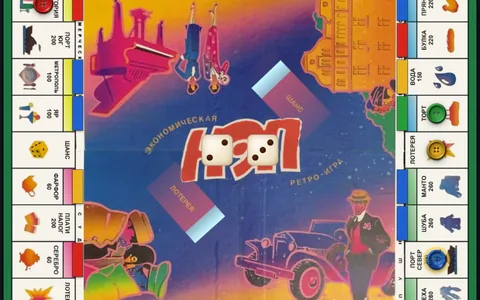
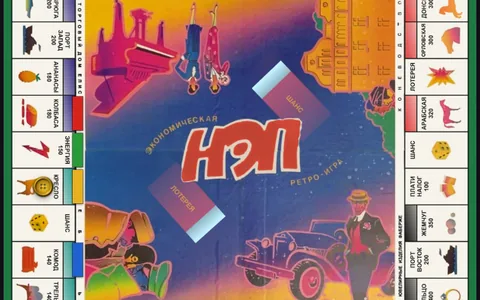
НЭП: «Начало» в правом нижнем углу, кубики «Менеджера» — в лотке на сукне справа, новость наверху ленты
- поле повёрнуто на 90° против часовой (tools/manager/nep/turn.py: каёмка с отраслями — вместе с кольцом, картинка центра прямая)
- кубики всех полей «Менеджера» перенесены из центра поля в панель (на телефоне их срезал край экрана)
- дата новости о НЭПе — после остальных, иначе она оказывалась в глубине ленты

diff --git a/lavochka/src/games/manager/manager.css b/lavochka/src/games/manager/manager.css
@@ -55,7 +55,6 @@
 .mg-center { position: absolute; z-index: 20; display: flex; flex-direction: column; align-items: center; justify-content: center; gap: calc(var(--u) * 1.2);
   padding: calc(var(--u) * 1.5); box-sizing: border-box; pointer-events: none; font: calc(var(--u) * 1.75) / 1.3 system-ui, sans-serif; color: #fff; }
 .mg-center > * { pointer-events: auto; }
-.mg-tray.dice-tray { flex: none; height: auto; min-height: calc(var(--u) * 9); width: 60%; background: none; box-shadow: none; overflow: visible; }
 .mg-prompt { display: flex; flex-direction: column; align-items: center; gap: calc(var(--u) * 0.9); max-width: 100%; text-align: center; }
 .mg-prompt:empty { display: none; }
 .mg-q { background: rgba(10, 16, 40, 0.82); padding: calc(var(--u) * 0.6) calc(var(--u) * 1.2); border-radius: calc(var(--u) * 0.8); text-shadow: 0 1px 2px #000; }
@@ -136,6 +135,7 @@
 
 /* панель стола */
 .mg-panel { display: flex; flex-direction: column; gap: 8px; }
+.mg-dice.dice-tray { min-height: 64px; }
 .mg-cash { display: flex; align-items: center; gap: 8px; flex-wrap: wrap; }
 .mg-sum { font: 800 20px/1.2 system-ui, sans-serif; }
 .mg-notes { display: inline-flex; gap: 3px; }
@@ -152,7 +152,6 @@
 .mg-wrap[data-map='biznesmen'] .mg-token { width: 3.6%; }
 .mg-wrap[data-map='biznesmen'] .mg-center { overflow: auto; }
 .mg-wrap[data-map='biznesmen'] .mg-center .btn { font-size: calc(var(--u) * 1.45); padding: calc(var(--u) * 0.5) calc(var(--u) * 1); }
-.mg-wrap[data-map='biznesmen'] .mg-tray.dice-tray { min-height: calc(var(--u) * 7); }
 .mg-wrap[data-map='biznesmen'] .mg-card { width: calc(var(--u) * 22); }
 .mg-shs { display: inline-flex; gap: 2px; vertical-align: middle; }
 .mg-sh { display: inline-block; width: 1.25em; border-radius: 3px; background: var(--c); color: #111; text-align: center; font-weight: 700; font-style: normal; box-shadow: inset 0 0 0 1px rgba(0, 0, 0, 0.35); }

diff --git a/lavochka/src/games/manager/view.ts b/lavochka/src/games/manager/view.ts
@@ -85,7 +85,6 @@ class ManagerView implements GameView<State, Ev> {
           <div class="mg-float"></div>
         </div>
         <div class="mg-center bc-ui">
-          <div class="mg-tray"></div>
           <div class="mg-card" hidden></div>
           <div class="mg-prompt"></div>
         </div>
@@ -97,7 +96,6 @@ class ManagerView implements GameView<State, Ev> {
     this.cellsEl = this.wrap.querySelector('.mg-cells') as HTMLElement;
     this.tokensEl = this.wrap.querySelector('.mg-tokens') as HTMLElement;
     this.center = this.wrap.querySelector('.mg-center') as HTMLElement;
-    this.trayEl = this.wrap.querySelector('.mg-tray') as HTMLElement;
     this.cardEl = this.wrap.querySelector('.mg-card') as HTMLElement;
     this.prompt = this.wrap.querySelector('.mg-prompt') as HTMLElement;
     this.pop = this.wrap.querySelector('.mg-pop') as HTMLElement;
@@ -120,12 +118,15 @@ class ManagerView implements GameView<State, Ev> {
       this.cam.shown();
     };
 
+    // кубики — в лотке на сукне в панели справа, как во всех играх (на поле их срезал край экрана телефона)
     this.panel = h(`<div class="mg-panel">
+        <div class="mg-dice"></div>
         <button class="btn primary mg-roll" data-tap hidden>Бросить кубики</button>
         <button class="btn mg-deal" hidden>Сделка…</button>
         <div class="mg-mine"></div>
       </div>`);
     ctx.controls.appendChild(this.panel);
+    this.trayEl = this.panel.querySelector('.mg-dice') as HTMLElement;
     this.rollBtn = this.panel.querySelector('.mg-roll') as HTMLButtonElement;
     this.dealBtn = this.panel.querySelector('.mg-deal') as HTMLButtonElement;
     this.mine = this.panel.querySelector('.mg-mine') as HTMLElement;

diff --git a/lavochka/src/games/manager/boards.ts b/lavochka/src/games/manager/boards.ts
@@ -1213,11 +1213,11 @@ const NEP_LOTO: Card[] = [
   nc(200, 'Ну и везёт же вам! Получите просто так 200 руб.'),
 ];
 
-/** Поле с зелёной рамкой: кольцо клеток — внутри рамки шириной 34 из 2000, угол — 269 из 1932. */
+/** Поле с зелёной рамкой: кольцо клеток — внутри рамки шириной 34 из 2000, угол — 269 из 1932; «Начало» — справа внизу (на оригинале — слева, поле повёрнуто). */
 const NEP_M = 34 / 2000;
 const NEP_C = 269 / 1932;
 const nepGeo = () =>
-  ring(NEP_C, 9, 0).map((g) => ({ ...g, x: NEP_M + g.x * (1 - 2 * NEP_M), y: NEP_M + g.y * (1 - 2 * NEP_M), w: g.w * (1 - 2 * NEP_M), h: g.h * (1 - 2 * NEP_M) }));
+  ring(NEP_C, 9, 3).map((g) => ({ ...g, x: NEP_M + g.x * (1 - 2 * NEP_M), y: NEP_M + g.y * (1 - 2 * NEP_M), w: g.w * (1 - 2 * NEP_M), h: g.h * (1 - 2 * NEP_M) }));
 const NEP_IN = NEP_M + NEP_C * (1 - 2 * NEP_M);
 
 const NEP: Board = {

diff --git a/lavochka/tools/manager/nep/turn.py b/lavochka/tools/manager/nep/turn.py
@@ -1,0 +1,36 @@
+# «Начало» — в правый нижний угол (решение пользователя): кольцо клеток повёрнуто на 90° против часовой,
+# поэтому и каёмку центра с подписями отраслей поворачиваем так же, а картинку внутри каёмки оставляем прямой.
+# center.png → center_r.png (запускать после whiten.py, перед render.py).
+import cv2, numpy as np
+
+src = cv2.imread('D:/temp/nep/center.png')
+W = src.shape[0]
+PAPER = np.array([234, 243, 246], np.uint8)  # BGR, как клетки поля
+sat = cv2.cvtColor(src, cv2.COLOR_BGR2HSV)[..., 1].astype(np.float32)
+
+
+def edge(prof2d):
+    """где по глубине от края начинается картинка (подряд 5 насыщенных пикселей) — медиана по стороне"""
+    hit = prof2d > 90
+    run = hit.copy()
+    for k in range(1, 5):
+        run[:, :-k] &= hit[:, k:]
+    pos = np.where(run.any(1), run.argmax(1), 0)
+    return int(np.median(pos[pos > 20]))
+
+
+t, b = edge(sat[:80, :].T), edge(sat[::-1][:80, :].T)
+l, r = edge(sat[:, :80]), edge(sat[:, ::-1][:, :80])
+B = max(t, b, l, r) + 1
+print('каёмка: верх', t, 'низ', b, 'лево', l, 'право', r, '->', B)
+
+# каёмка: повёрнутая на 90° против часовой, всё, что глубже её края, — бумага
+band = np.rot90(src).copy()
+nt, nb, nl, nr = r, l, t, b  # края после поворота: правая сторона стала верхней и т. д.
+ys, xs = np.mgrid[0:W, 0:W]
+pic = (ys >= nt) & (ys < W - nb) & (xs >= nl) & (xs < W - nr)
+band[pic] = PAPER
+# картинка — прямая, растянута на одинаковую каёмку B со всех сторон (сдвиг — пара пикселей)
+inner = cv2.resize(src[t:W - b, l:W - r], (W - 2 * B, W - 2 * B), interpolation=cv2.INTER_AREA)
+band[B:W - B, B:W - B] = inner
+cv2.imwrite('D:/temp/nep/center_r.png', band)

diff --git a/lavochka/tools/manager/nep/render.py b/lavochka/tools/manager/nep/render.py
@@ -1,4 +1,6 @@
-# Поле «НЭП» 2000×2000: зелёная рамка, кольцо из 40 клеток (по часовой от «Начала» в левом нижнем углу), центр — склейка с фото.
+# Поле «НЭП» 2000×2000: зелёная рамка, кольцо из 40 клеток (по часовой от «Начала»), центр — склейка с фото.
+# Кольцо набирается как на оригинале («Начало» слева внизу) и поворачивается на 90° против часовой: «Начало» — справа внизу
+# (решение пользователя). Центр — center_r.png из turn.py (каёмка повёрнута, картинка прямая).
 import numpy as np
 from PIL import Image, ImageDraw, ImageFont, ImageFilter, ImageEnhance
 
@@ -149,9 +151,11 @@ rtext(['ТАМОЖНЯ'], S - M - C + 150 * k, M + 128 * k, 135, 38)
 corner_icon('tl', S - M - C + 120 * k, S - M - C + 121 * k)
 rtext(['ПОСЕТИТЕ', 'ТЕАТР'], S - M - C + 170 * k, S - M - C + 168 * k, 45, 36, fill=(70, 70, 70))
 corner_icon('bl', M + 123 * k, S - M - C + 104 * k)
-rtext(['НАЧАЛО'], M + C / 2, S - M - C + 214 * k, 0, 40)
 
-cen = Image.open('D:/temp/nep/center.png').convert('RGBA').resize((hi - lo - LINE, hi - lo - LINE), Image.LANCZOS)
+board = board.rotate(90)
+# «НАЧАЛО» после поворота — по-прежнему горизонтально, над стрелкой
+rtext(['НАЧАЛО'], S - M - C / 2, S - M - C + 52 * k, 0, 40)
+cen = Image.open('D:/temp/nep/center_r.png').convert('RGBA').resize((hi - lo - LINE, hi - lo - LINE), Image.LANCZOS)
 board.alpha_composite(cen, (lo + LINE // 2, lo + LINE // 2))
 board = board.convert('RGB')
 board.save('D:/temp/nep/nep_board.png')

diff --git a/lavochka/tools/manager/nep/README.md b/lavochka/tools/manager/nep/README.md
@@ -8,6 +8,7 @@
    `whiten.py` (после `center2.py`) — каёмка с подписями отраслей отбелена до цвета клеток (край с картинкой — прямой, буквы — чёрные; на поле не пропечаталась «Р» в «ресторане» — вставлена копия).
 3. Всё поле выпрямлено с основного фото (`rect.py` по внешним углам → `full1.png`), `fullclean.py` затирает сгибы, `icons.py` / `cornericons.py` режут значки клеток и углов (фон — прозрачный).
    Заменены: кубик «Шанса» и звезда «Лотереи» на сгибе — соседними такими же; порты — одним кораблём; конь «Донской» (под фишкой) — силуэт со второго фото с заливкой; молния «Энергии» — узкой заплаткой по сгибу.
-4. `render.py` — поле 2000×2000: зелёная рамка 34 px, угол 269, клетки набраны Arial Bold, полосы отраслей — градиентом, центр — `center.png` → `public/manager/nep.webp`.
+4. `turn.py` — «Начало» в правый нижний угол (решение пользователя; на оригинале — левый нижний): каёмка центра с подписями отраслей повёрнута на 90° против часовой вместе с кольцом, картинка — прямая → `center_r.png`.
+5. `render.py` — поле 2000×2000: зелёная рамка 34 px, угол 269, клетки набраны Arial Bold, полосы отраслей — градиентом; кольцо набирается как на оригинале и поворачивается, центр — `center_r.png` → `nep_board.png` → `public/manager/nep.webp` (webp, quality 88).
 
 Купюры 1–500 вырезаны с фото пачек (перспектива + баланс белого), рубашки карточек — белые с надписью Times, как на оригинале.

diff --git a/lavochka/content/news/nep.md b/lavochka/content/news/nep.md
@@ -2,7 +2,7 @@
 title: «НЭП» — экономическая ретро-игра 90-х появилась в «Менеджере»
 h1: Новое поле в «Менеджере» — «НЭП»
 description: Настольная экономическая игра «НЭП» начала 90-х теперь онлайн: патенты, синдикаты, магазины и торговые дома, «Шанс», «Лотерея» и театр. Поле — с оригинала.
-date: 2026-10-25
+date: 2026-11-15
 games: manager
 ---
 В карточке [«Менеджер»](/menedzher/) — новое поле: **«НЭП»**, экономическая ретро-игра начала 90-х в духе двадцатых годов. Своя страница — [«НЭП» онлайн](/menedzher/nep/).
